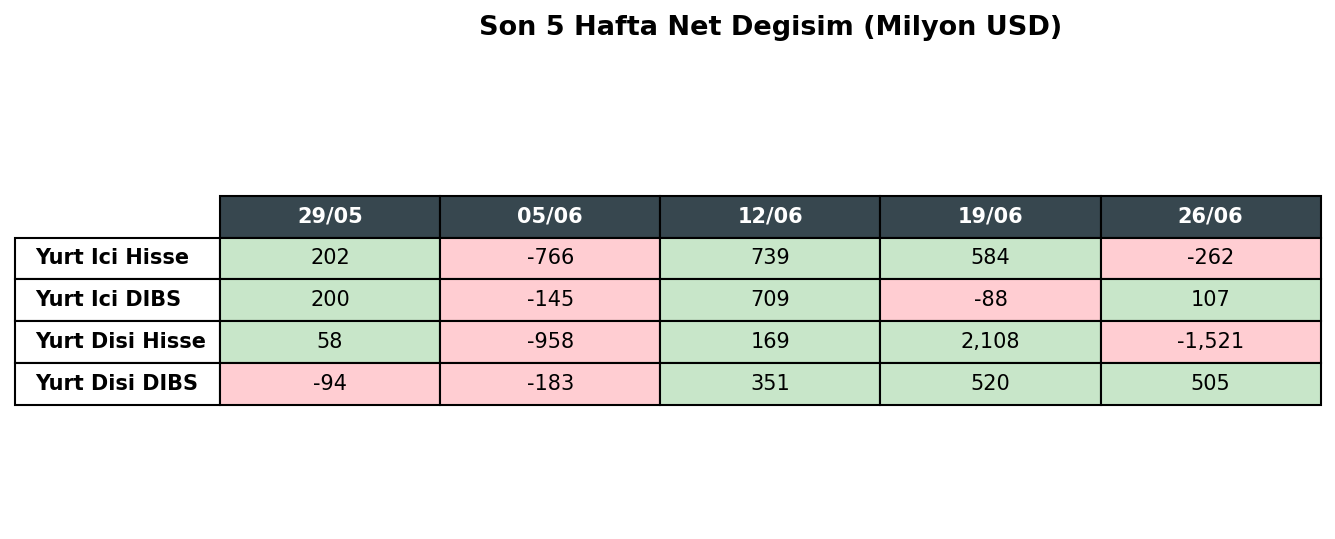
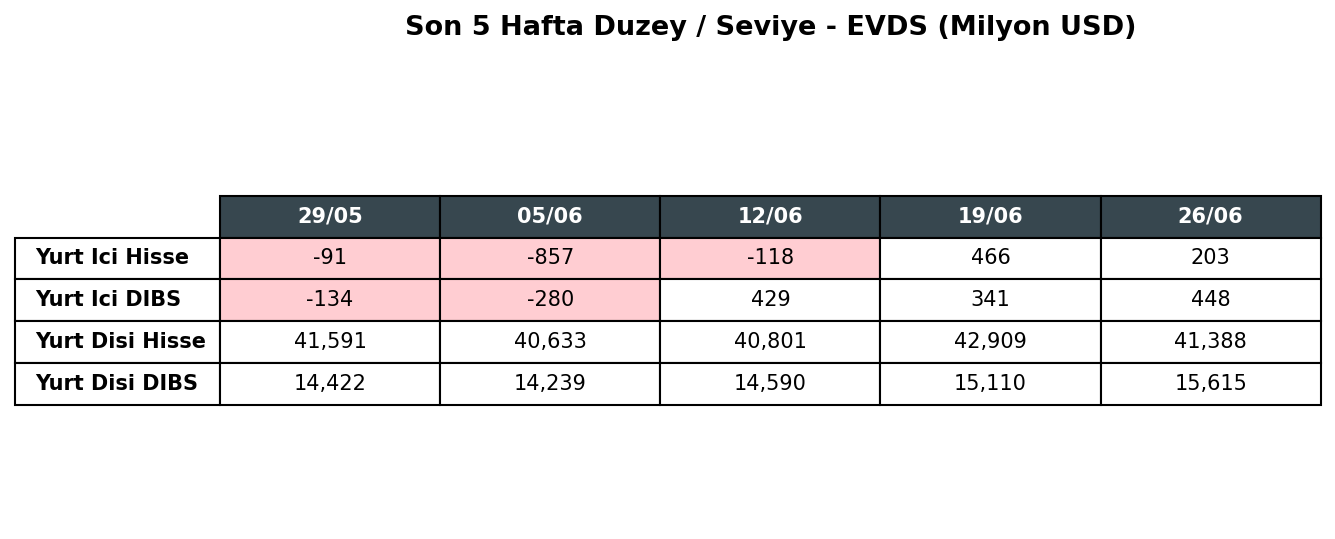
TCMB Haftalık Stok: tablo net değişim yerine EVDS Düzey/Seviye gösteriyor

diff --git a/tcmb haftalık stok/tcmb_data.py b/tcmb haftalık stok/tcmb_data.py
@@ -100,7 +100,7 @@ def make_recent_table(all_data: dict[str, pd.DataFrame], n_weeks: int = 5):
                 date_cols.append(d)
             if name not in rows:
                 rows[name] = {}
-            rows[name][d] = row["change"]
+            rows[name][d] = row["value"]  # net degisim degil, EVDS Duzey (seviye)
 
     if not rows:
         return
@@ -125,12 +125,8 @@ def make_recent_table(all_data: dict[str, pd.DataFrame], n_weeks: int = 5):
                 row_colors.append("#FFFFFF")
             else:
                 row_vals.append(f"{val:,.0f}")
-                if val > 0:
-                    row_colors.append("#C8E6C9")  # yesil
-                elif val < 0:
-                    row_colors.append("#FFCDD2")  # kirmizi
-                else:
-                    row_colors.append("#FFFFFF")
+                # Seviye tablosu: negatif pozisyon kirmizi, digerleri notr
+                row_colors.append("#FFCDD2" if val < 0 else "#FFFFFF")
         cell_text.append(row_vals)
         cell_colors.append(row_colors)
 
@@ -153,7 +149,7 @@ def make_recent_table(all_data: dict[str, pd.DataFrame], n_weeks: int = 5):
     for i in range(len(tbl.index)):
         table[i + 1, -1].set_text_props(fontweight="bold")
 
-    ax.set_title(f"Son {n_weeks} Hafta Net Degisim (Milyon USD)", fontsize=13, fontweight="bold", pad=20)
+    ax.set_title(f"Son {n_weeks} Hafta Duzey / Seviye - EVDS (Milyon USD)", fontsize=13, fontweight="bold", pad=20)
     plt.tight_layout()
     plt.savefig(OUTPUT_DIR / "tablo_son_haftalar.png", dpi=150, bbox_inches="tight")
     plt.close()

diff --git a/dashboard.py b/dashboard.py
@@ -1063,8 +1063,8 @@ elif selected == "tcmb_stok":
 
     # Tab 1: Son hafta tablosu
     with tab1:
-        st.subheader("Son 5 Hafta Net Değişim (Milyon USD)")
-        show_image_with_download(str(tablo_path), "Son 5 Hafta Net Değişim Tablosu")
+        st.subheader("Son 5 Hafta Düzey / Seviye — EVDS (Milyon USD)")
+        show_image_with_download(str(tablo_path), "Son 5 Hafta Düzey Tablosu")
 
     # Tab 2: Histogram
     with tab2: